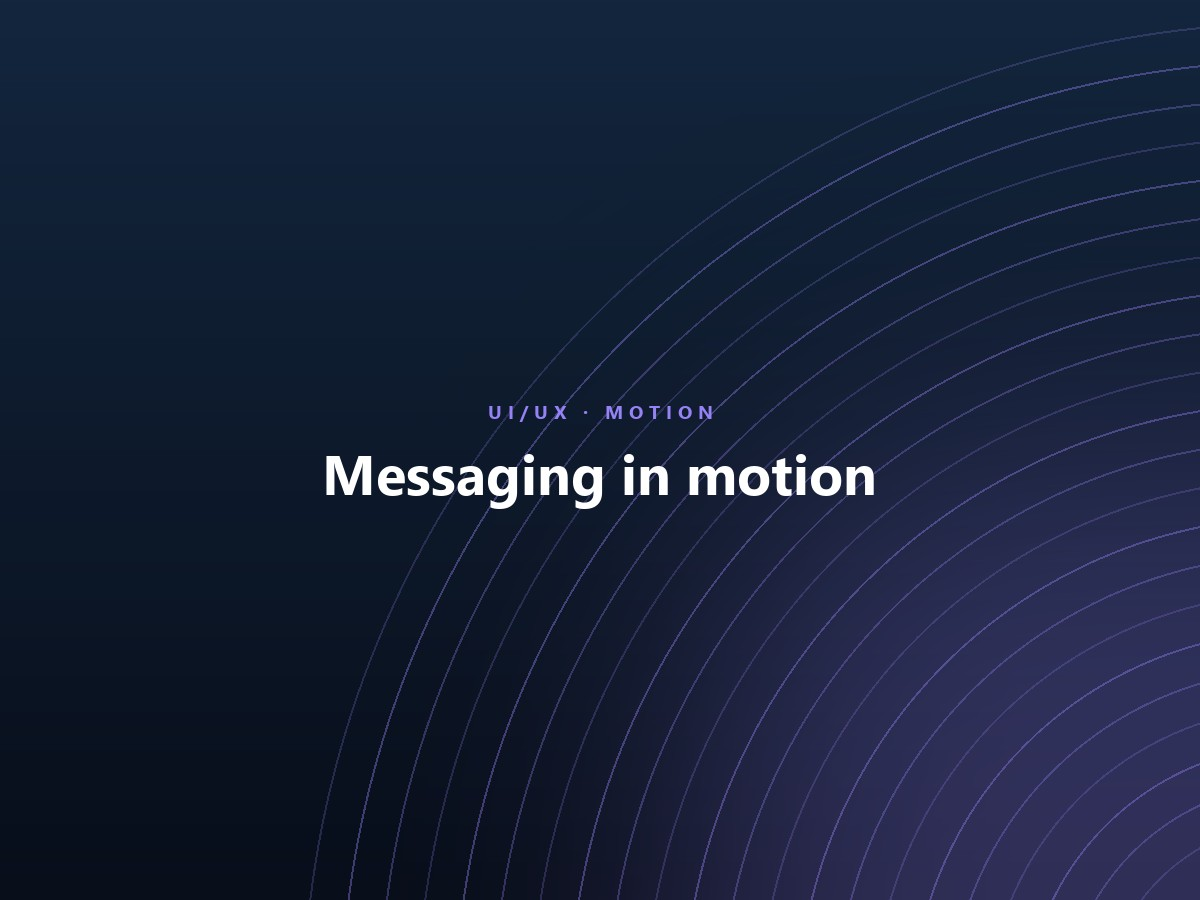
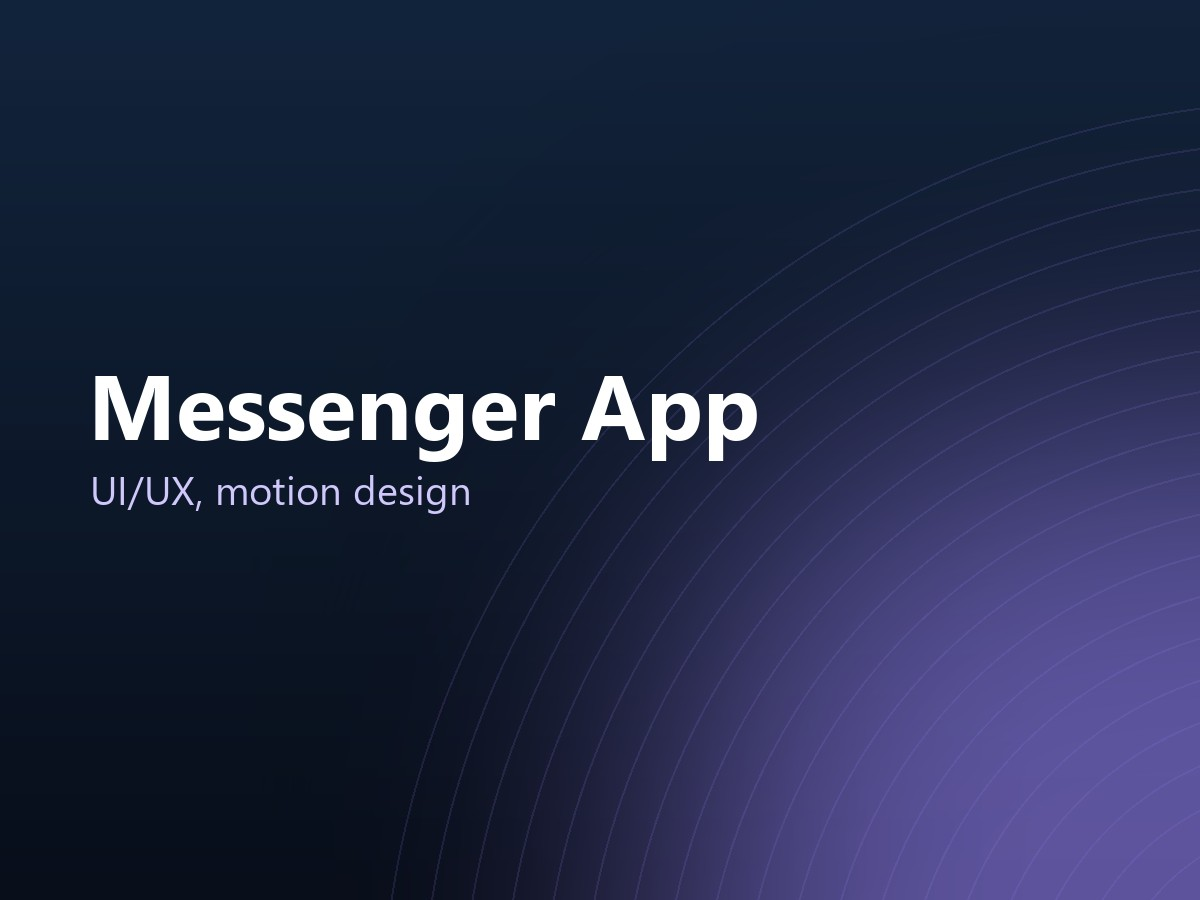
Homepage grid: bigger, informative text baked into each tile
Reworked the work tiles so the text is large, readable and informative
instead of small and vague. Each tile now shows the project name big
plus a short descriptor of what it is, with a strong per-project accent
colour for clear differentiation. Removed the separate captions under
the tiles, which fixes the mobile confusion about which caption belonged
to which thumbnail, and set the media to sit flush.

diff --git a/www/index.html b/www/index.html
@@ -211,7 +211,7 @@
 	.card{display:flex;flex-direction:column;transition:transform 0.25s ease}
 	.card:hover{transform:translateY(-4px)}
 	.card__media{
-		aspect-ratio:4/3;border-radius:var(--radius);overflow:hidden;margin-bottom:1rem;
+		aspect-ratio:4/3;border-radius:var(--radius);overflow:hidden;margin-bottom:0;
 	}
 	.card__media img{width:100%;height:100%;object-fit:cover;display:block;transition:transform 0.4s ease}
 	.card:hover .card__media img{transform:scale(1.04)}
@@ -327,48 +327,31 @@
 			<div class="grid">
 
 				<a href="/works/design-program.html" class="card" title="Design Program case study">
-					<div class="card__media"><img src="images/thumbnails/program-tile.jpg" alt="Design program, rebuilt for the AI era" loading="lazy" decoding="async"></div>
-					<div class="card__variant">Flagship program</div>
-					<div class="card__title">Design Program</div>
-					<div class="card__cat">Seven-phase program · Web, Mobile, AI</div>
+					<div class="card__media"><img src="images/thumbnails/program-tile.jpg" alt="Design Program. Media intelligence, discovery to AI." loading="lazy" decoding="async"></div>
 				</a>
 
 				<a href="/works/agileengine_design_system.html" class="card" title="AgileEngine Design System case study">
-					<div class="card__media"><img src="images/thumbnails/ae-ds-tile.jpg" alt="AgileEngine design system, one system for many brands" loading="lazy" decoding="async"></div>
-					<div class="card__title">AgileEngine Design System</div>
-					<div class="card__cat">Design System, Multi-brand, Figma + MUI</div>
+					<div class="card__media"><img src="images/thumbnails/ae-ds-tile.jpg" alt="Design System. AgileEngine, multi-brand, Figma and MUI." loading="lazy" decoding="async"></div>
 				</a>
 
 				<a href="/works/bigdata.html" class="card" title="Metric Insights, full case study">
-					<div class="card__media"><img src="images/thumbnails/mi-tile.jpg" alt="Metric Insights, BI on every screen" loading="lazy" decoding="async"></div>
-					<div class="card__variant">Full case study</div>
-					<div class="card__title">Metric Insights</div>
-					<div class="card__cat">BI Platform · Web, Mobile, Watch</div>
+					<div class="card__media"><img src="images/thumbnails/mi-tile.jpg" alt="Metric Insights. BI platform, web to watch." loading="lazy" decoding="async"></div>
 				</a>
 
 				<a href="/works/metric_insights_classic.html" class="card" title="Metric Insights, original presentation">
-					<div class="card__media"><img src="images/thumbnails/mi-classic-tile.jpg" alt="Metric Insights, original device showcase" loading="lazy" decoding="async"></div>
-					<div class="card__variant">Original presentation</div>
-					<div class="card__title">Metric Insights</div>
-					<div class="card__cat">BI Platform · Device showcase</div>
+					<div class="card__media"><img src="images/thumbnails/mi-classic-tile.jpg" alt="Metric Insights. Original device showcase." loading="lazy" decoding="async"></div>
 				</a>
 
 				<a href="/works/messenger.html" class="card" title="Messenger mobile app">
-					<div class="card__media"><img src="images/thumbnails/messenger-tile.jpg" alt="Messenger app, messaging in motion" loading="lazy" decoding="async"></div>
-					<div class="card__title">Messenger App</div>
-					<div class="card__cat">UI/UX Design, Motion Design</div>
+					<div class="card__media"><img src="images/thumbnails/messenger-tile.jpg" alt="Messenger App. UI/UX and motion design." loading="lazy" decoding="async"></div>
 				</a>
 
 				<a href="/works/onboarding.html" class="card" title="Onboarding for mobile app">
-					<div class="card__media"><img src="images/thumbnails/onboarding-tile.jpg" alt="Mobile onboarding, illustrated" loading="lazy" decoding="async"></div>
-					<div class="card__title">Mobile Onboarding</div>
-					<div class="card__cat">UI/UX Design, Illustrations</div>
+					<div class="card__media"><img src="images/thumbnails/onboarding-tile.jpg" alt="Mobile Onboarding. UX and illustration." loading="lazy" decoding="async"></div>
 				</a>
 
 				<a href="/works/headphone_framework.html" class="card" title="Headphone hardware framework">
-					<div class="card__media"><img src="images/thumbnails/headphone-tile.jpg" alt="Headphone framework, UX for hardware" loading="lazy" decoding="async"></div>
-					<div class="card__title">Headphone Framework</div>
-					<div class="card__cat">UI/UX Design, Hardware</div>
+					<div class="card__media"><img src="images/thumbnails/headphone-tile.jpg" alt="Headphone Framework. Hardware UX." loading="lazy" decoding="async"></div>
 				</a>
 
 			</div>
